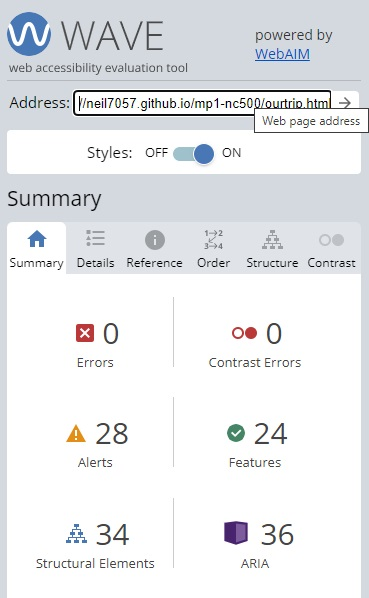
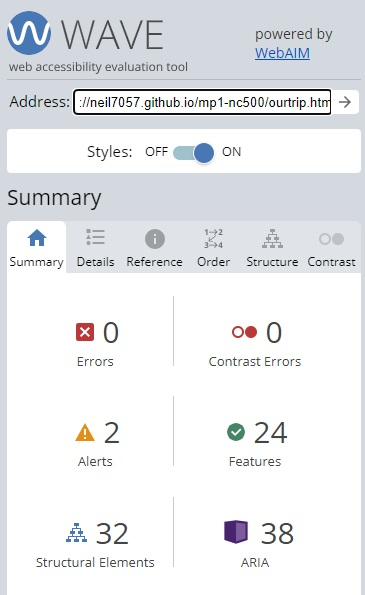
Fix: corrcet filesizes on some gallery images

diff --git a/README.md b/README.md
@@ -496,12 +496,15 @@ Results:
 <img src="docs/testing/wave-index.jpg">
 </details>
 <br>
-The ourtrip page reports warnings for justified text.
-However this is against a pale blue not white background and makes the text flow better and doesn't affect readability.
+The ourtrip page reports 2 alerts for video content.
+However there is no audio on the video, so no transcript required. The videos have aria-labels that are detected by screen reading software (NVDA).
 <br>
 <br>
 <details><summary>Our Trip Page</summary>
 <img src="docs/testing/wave-ourtrip.jpg">
+</details>
+<details><summary>Our Trip Page Alerts</summary>
+<img src="docs/testing/wave-ourtrip-warnings.jpg">
 </details>
 <br>
 The Gallery Page uses third party code for an image caroussel and slideshow.
@@ -527,11 +530,13 @@ but are detected by Screen Reader software (NVDA).
 </details>
 <br>
 
-    Manual tests were also performed to ensure the website was accessible as possible.
+Manual tests were also performed to ensure the website was accessible as possible.
+
 ### Screen Reader
 
 Screen reader testing was performed using NVDA software from [NV Access](https://www.nvaccess.org/).
 This confirmed that:
+
 -   All text is readable.
 -   All images have accurate, useful text descriptions.
 -   Videos have extended title descriptions.
@@ -569,7 +574,6 @@ During testing, it was necessary to make some minor changes.
 <details><summary>Error 404 Page</summary>
 <img src="docs/testing/404-lighthouse.jpg">
 </details>
-<br>
 
 ### Functional Testing
 
